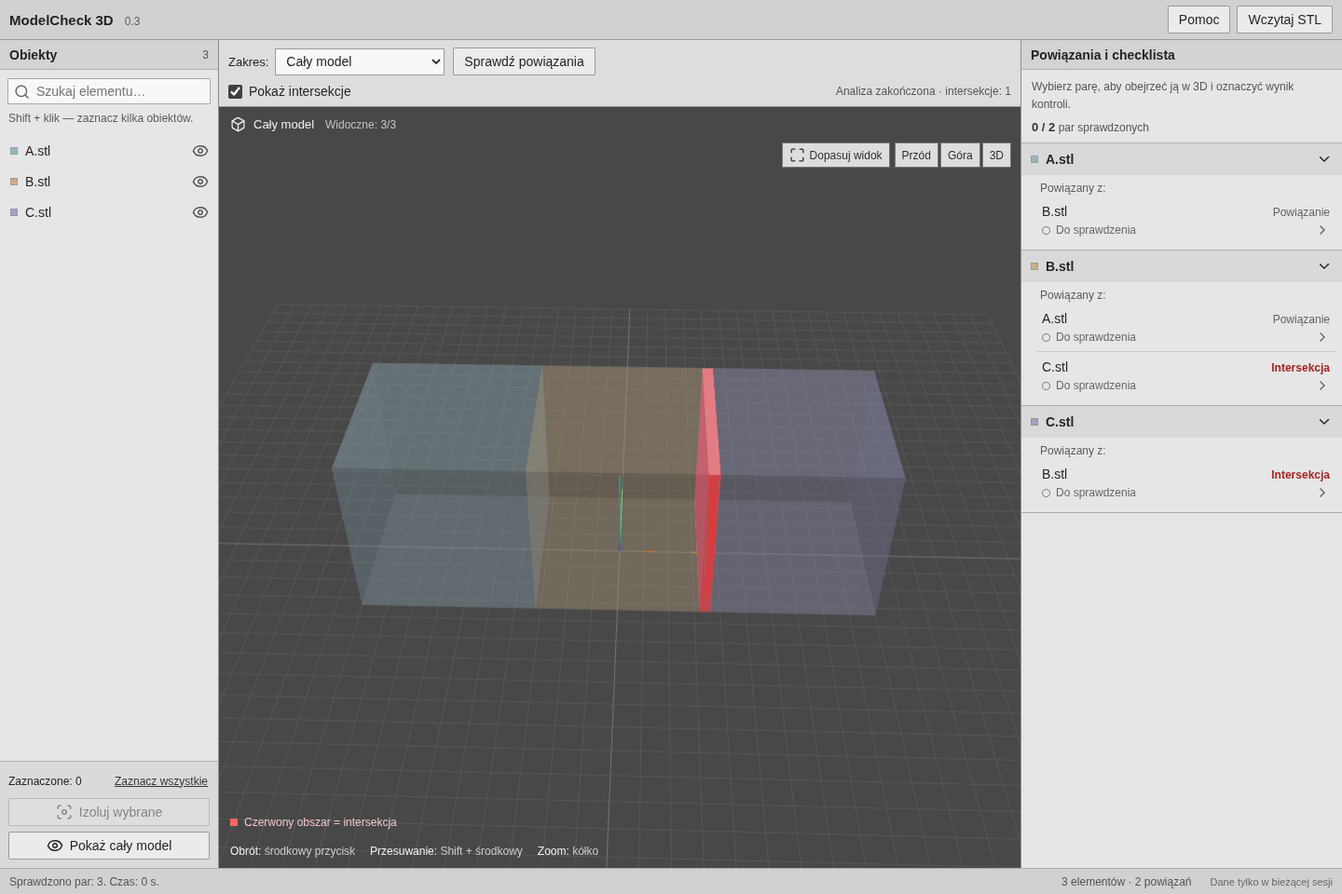
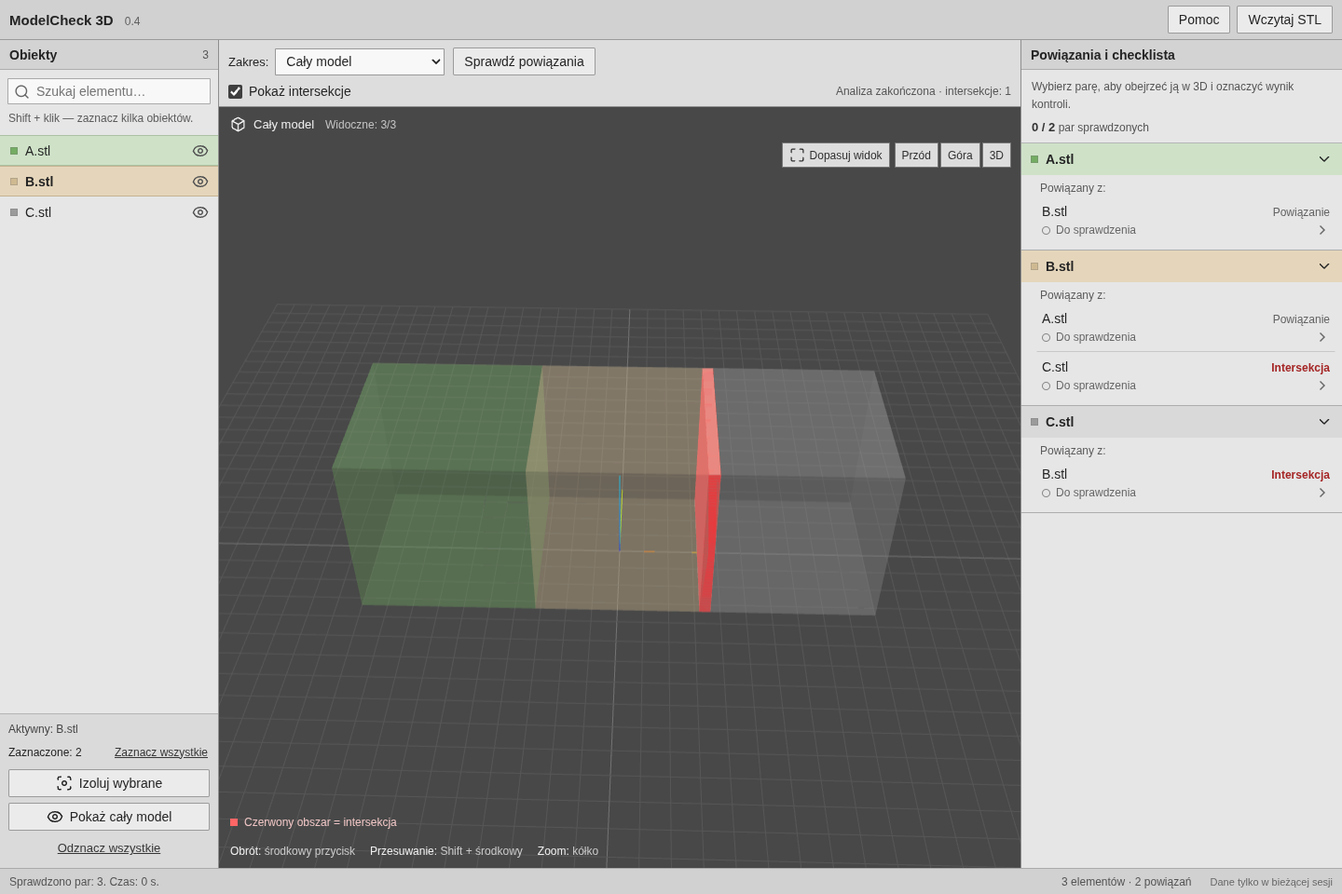
Color parts by inactive, selected and active states

diff --git a/frontend/src/App.tsx b/frontend/src/App.tsx
@@ -4,11 +4,11 @@ import { Viewer } from './Viewer';
 import { ObjectMenu } from './ObjectMenu';
 import type { ObjectMenuState } from './ObjectMenu';
 import type { ViewerHandle } from './Viewer';
-import { api, labels, number, palette } from './types';
+import { api, labels, number, partColor } from './types';
 import type { Job, Part, Relation } from './types';
 import './style.css';
 
-type Imported = { parts: Omit<Part, 'color' | 'visible'>[]; errors: { name: string; message: string }[] };
+type Imported = { parts: Omit<Part, 'visible'>[]; errors: { name: string; message: string }[] };
 const statusLabel = { TODO: 'Do sprawdzenia', OK: 'OK', FIX: 'Wymaga poprawki' };
 function ReviewCard({ relation, parts, disabled, onReview, onClose }: { relation: Relation; parts: Part[]; disabled: boolean; onReview: (status: Relation['status'], note: string) => void; onClose: () => void }) {
   const [note, setNote] = useState(relation.note);
@@ -33,7 +33,9 @@ export default function App() {
   const [session, setSession] = useState('');
   const [parts, setParts] = useState<Part[]>([]);
   const [relations, setRelations] = useState<Relation[]>([]);
-  const [selected, setSelected] = useState<string[]>([]);
+  const [selection, setSelection] = useState<{ ids: string[]; activeId: string | null }>({ ids: [], activeId: null });
+  const selected = selection.ids;
+  const activePartId = selection.activeId;
   const [isolated, setIsolated] = useState<string[] | null>(null);
   const [activePair, setActivePair] = useState<string | null>(null);
   const [scope, setScope] = useState<'all' | 'selected'>('all');
@@ -93,7 +95,7 @@ export default function App() {
   }, [session, job?.id, job?.state]);
 
   const addImported = (result: Imported) => {
-    setParts(previous => [...previous, ...result.parts.map((part, i) => ({ ...part, color: palette[(previous.length + i) % palette.length], visible: true }))]);
+    setParts(previous => [...previous, ...result.parts.map(part => ({ ...part, visible: true }))]);
     setExpanded(previous => new Set([...previous, ...result.parts.map(part => part.id)]));
     if (result.errors.length) setError(result.errors.map(item => `${item.name}: ${item.message}`).join('\n'));
     if (result.parts.length) setNotice(`Wczytano ${result.parts.length} ${result.parts.length === 1 ? 'część' : 'części'}. Współrzędne STL zostały zachowane.`);
@@ -134,14 +136,19 @@ export default function App() {
   }
   function select(id: string | null, multi: boolean) {
     setActivePair(null);
-    if (!id) { if (!multi) setSelected([]); return; }
+    if (!id) { if (!multi) setSelection({ ids: [], activeId: null }); return; }
     if (isolated && !isolated.includes(id)) setIsolated(null);
     setExpanded(previous => new Set([...previous, id]));
     requestAnimationFrame(() => document.getElementById(`check-${id}`)?.scrollIntoView({ block: 'nearest' }));
-    setSelected(previous => multi ? previous.includes(id) ? previous.filter(item => item !== id) : [...previous, id] : [id]);
+    setSelection(previous => {
+      if (!multi) return { ids: [id], activeId: id };
+      if (!previous.ids.includes(id)) return { ids: [...previous.ids, id], activeId: id };
+      const ids = previous.ids.filter(item => item !== id);
+      return { ids, activeId: previous.activeId === id ? ids.at(-1) ?? null : previous.activeId };
+    });
   }
-  function focusPair(relation: Relation) {
-    setActivePair(relation.id); setSelected(relation.part_ids); setIsolated(relation.part_ids);
+  function focusPair(relation: Relation, clickedId: string) {
+    setActivePair(relation.id); setSelection({ ids: relation.part_ids, activeId: clickedId }); setIsolated(relation.part_ids);
     setParts(previous => previous.map(part => relation.part_ids.includes(part.id) ? { ...part, visible: true } : part));
     requestAnimationFrame(() => viewer.current?.fit(relation.part_ids));
   }
@@ -155,7 +162,10 @@ export default function App() {
       await api(`/sessions/${session}/parts/${id}`, { method: 'DELETE' });
       setParts(previous => previous.filter(part => part.id !== id));
       setRelations(previous => previous.filter(relation => !relation.part_ids.includes(id)));
-      setSelected(previous => previous.filter(pid => pid !== id));
+      setSelection(previous => {
+        const ids = previous.ids.filter(pid => pid !== id);
+        return { ids, activeId: previous.activeId === id ? ids.at(-1) ?? null : previous.activeId };
+      });
       setIsolated(null); setActivePair(null); setLoaded(previous => Math.max(0, previous - 1));
       setNotice('Usunięto element z modelu.');
     } catch (err) { setError((err as Error).message); }
@@ -192,7 +202,7 @@ export default function App() {
     <input type="file" ref={fileInput} accept=".stl" multiple hidden onChange={event => { if (event.target.files) void importFiles(event.target.files); }} />
 
     <header className="topbar">
-      <div className="brand"><strong>ModelCheck 3D</strong><span className="app-version">0.3</span></div>
+      <div className="brand"><strong>ModelCheck 3D</strong><span className="app-version">0.4</span></div>
       <div className="header-actions">
         <button className="button secondary help-button" onClick={() => setHelp(true)}>Pomoc</button>
         <button className="button primary" disabled={busy || !session} onClick={() => fileInput.current?.click()}>Wczytaj STL</button>
@@ -208,7 +218,7 @@ export default function App() {
           {!parts.length && <p className="empty-note">Wczytane pliki STL pojawią się tutaj.</p>}
           {parts.filter(part => part.name.toLowerCase().includes(search.toLowerCase())).map(part => {
             const visible = part.visible && (!isolated || isolated.includes(part.id));
-            return <div key={part.id} className={`object-row ${selected.includes(part.id) ? 'selected' : ''} ${!visible ? 'muted' : ''}`}
+            return <div key={part.id} className={`object-row ${selected.includes(part.id) ? 'selected' : ''} ${activePartId === part.id ? 'active-part' : ''} ${!visible ? 'muted' : ''}`} data-selection={activePartId === part.id ? 'active' : selected.includes(part.id) ? 'selected' : 'idle'}
               onContextMenu={event => {
                 event.preventDefault();
                 setObjectMenu({ id: part.id, x: event.clientX, y: event.clientY, trigger: event.currentTarget.querySelector<HTMLButtonElement>('.object-select') });
@@ -221,8 +231,8 @@ export default function App() {
                 }
               }}>
 
-              <button className="object-select" aria-pressed={selected.includes(part.id)} onClick={event => select(part.id, event.shiftKey || event.ctrlKey || event.metaKey)}>
-                <span className="part-swatch" style={{ background: part.color }} /><span title={part.name}>{part.name}{duplicateName(part)}</span>
+              <button className="object-select" aria-pressed={selected.includes(part.id)} aria-current={activePartId === part.id ? 'true' : undefined} onClick={event => select(part.id, event.shiftKey || event.ctrlKey || event.metaKey)}>
+                <span className="part-swatch" style={{ background: partColor(part.id, selected, activePartId) }} /><span title={part.name}>{part.name}{duplicateName(part)}</span>
                 {!part.solid && <span className="warning-text" title="Siatka wymaga weryfikacji">!</span>}
               </button>
               <button className="icon-button visibility-button" title={`${visible ? 'Ukryj' : 'Pokaż'} ${part.name}`} onClick={() => toggleVisibility(part)}>{visible ? <Eye size={18} /> : <EyeOff size={18} />}</button>
@@ -231,10 +241,11 @@ export default function App() {
           {parts.length > 0 && !parts.some(part => part.name.toLowerCase().includes(search.toLowerCase())) && <p className="empty-note">Nie znaleziono elementu.</p>}
         </div>
         <div className="selection-tools">
-          <div className="selection-summary"><strong>Zaznaczone: {selected.length}</strong><button className="text-button" disabled={!parts.length} onClick={() => setSelected(parts.map(part => part.id))}>Zaznacz wszystkie</button></div>
+          <p className="active-object" title={parts.find(part => part.id === activePartId)?.name}>Aktywny: {parts.find(part => part.id === activePartId)?.name ?? '—'}</p>
+          <div className="selection-summary"><strong>Zaznaczone: {selected.length}</strong><button className="text-button" disabled={!parts.length} onClick={() => setSelection(previous => ({ ids: parts.map(part => part.id), activeId: previous.activeId ?? parts.at(-1)?.id ?? null }))}>Zaznacz wszystkie</button></div>
           <button className="button secondary wide" disabled={!selected.length} onClick={fitSelected}><Focus size={18} />Izoluj wybrane</button>
           <button className="button secondary wide" disabled={!parts.length} onClick={showAll}><Eye size={18} />Pokaż cały model</button>
-          {selected.length > 0 && <button className="text-button wide" onClick={() => { setSelected([]); setActivePair(null); }}>Odznacz wszystkie</button>}
+          {selected.length > 0 && <button className="text-button wide" onClick={() => { setSelection({ ids: [], activeId: null }); setActivePair(null); }}>Odznacz wszystkie</button>}
         </div>
       </aside>
 
@@ -252,7 +263,7 @@ export default function App() {
         </section>
 
         <div className="viewport">
-          <Viewer ref={viewer} session={session} parts={parts} relations={overlayRelations} selected={selected} isolated={isolated} intersections={intersections} onSelect={select} onError={setError} onLoaded={setLoaded} />
+          <Viewer ref={viewer} session={session} parts={parts} relations={overlayRelations} selected={selected} activePartId={activePartId} isolated={isolated} intersections={intersections} onSelect={select} onError={setError} onLoaded={setLoaded} />
           <div className="scene-label"><Box size={17} /><strong>{isolated ? 'Wybrane elementy' : 'Cały model'}</strong><span>Widoczne: {parts.filter(part => part.visible && (!isolated || isolated.includes(part.id))).length}/{parts.length}</span></div>
           <div className="view-controls"><button title="Dopasuj kamerę do widocznych części" onClick={() => viewer.current?.fit()}><Maximize size={17} />Dopasuj widok</button><div className="axis-controls"><button title="Widok z przodu" onClick={() => viewer.current?.view('y')}>Przód</button><button title="Widok z góry" onClick={() => viewer.current?.view('z')}>Góra</button><button title="Widok perspektywiczny" onClick={() => viewer.current?.view('perspective')}>3D</button></div></div>
           {!parts.length && <div className="welcome"><h1>Brak modelu</h1><p>Wczytaj pliki STL lub przeciągnij je do okna.</p><button className="button primary" disabled={busy || !session} onClick={() => fileInput.current?.click()}>Wybierz pliki STL</button><button className="text-button" disabled={busy || !session} onClick={() => void demo()}>Wypróbuj przykład A / B / C</button></div>}
@@ -274,15 +285,15 @@ export default function App() {
             const rows = all.filter(row => row.kind !== 'DISCONNECTED').sort((a, b) => otherName(a).localeCompare(otherName(b), 'pl', { numeric: true }));
             const complete = all.length === parts.length - 1;
             const isExpanded = expanded.has(part.id);
-            return <section className={`check-part ${selected.includes(part.id) ? 'highlight' : ''}`} key={part.id} id={`check-${part.id}`}>
+            return <section className={`check-part ${selected.includes(part.id) ? 'highlight' : ''} ${activePartId === part.id ? 'active-part' : ''}`} key={part.id} id={`check-${part.id}`}>
               <button className="check-part-heading" onClick={() => toggleExpanded(part.id)} aria-expanded={isExpanded}>
-                <span className="part-swatch" style={{ background: part.color }} /><strong title={part.name}>{part.name}{duplicateName(part)}</strong>{isExpanded ? <ChevronDown size={18} /> : <ChevronRight size={18} />}
+                <span className="part-swatch" style={{ background: partColor(part.id, selected, activePartId) }} /><strong title={part.name}>{part.name}{duplicateName(part)}</strong>{isExpanded ? <ChevronDown size={18} /> : <ChevronRight size={18} />}
               </button>
               {isExpanded && <div className="check-part-relations">
                 {rows.length > 0 && <p className="relation-list-label">{rows.some(row => row.kind === 'UNCERTAIN') ? 'Powiązania i pary do weryfikacji:' : 'Powiązany z:'}</p>}
                 {rows.map(row => {
                   const other = parts.find(item => item.id === row.part_ids.find(id => id !== part.id));
-                  return <button key={row.id} className={`relation-row ${activePair === row.id ? 'active' : ''}`} onClick={() => focusPair(row)}>
+                  return <button key={row.id} className={`relation-row ${activePair === row.id ? 'active' : ''}`} onClick={() => focusPair(row, other?.id ?? row.part_ids[1])}>
                     <div className="relation-title"><strong title={other?.name}>{other?.name}{other ? duplicateName(other) : ''}</strong><span className={`relation-kind ${row.kind.toLowerCase()}`}>{labels[row.kind]}</span></div>
                     <div className={`review-status ${row.status.toLowerCase()}`}>{row.status === 'OK' ? <Check size={15} /> : row.status === 'FIX' ? <TriangleAlert size={15} /> : <span className="status-circle" />}{statusLabel[row.status]}<ChevronRight size={16} /></div>
                   </button>;

diff --git a/frontend/tests/workflow.spec.ts b/frontend/tests/workflow.spec.ts
@@ -10,6 +10,7 @@ test('model ABC: render, analyze, inspect, review and scope', async ({ page }, t
   await expect(page.locator('.object-row')).toHaveCount(3);
   await expect(page.locator('.geometry-loading')).toHaveCount(0);
   await expect(page.locator('canvas')).toBeVisible();
+  await expect(page.locator('.object-row[data-selection=idle]')).toHaveCount(3);
   await expect(page.getByLabel('Pokaż intersekcje', { exact: true })).not.toBeChecked();
   const canvas = page.locator('canvas');
   const bounds = (await canvas.boundingBox())!;
@@ -38,6 +39,18 @@ test('model ABC: render, analyze, inspect, review and scope', async ({ page }, t
   after = await canvas.screenshot();
   expect(Buffer.compare(before, after), 'Scroll wheel must zoom the rendered scene').not.toBe(0);
   await page.getByTitle('Dopasuj kamerę do widocznych części').click();
+  const a = page.locator('.object-row').filter({ hasText: 'A.stl' });
+  const b = page.locator('.object-row').filter({ hasText: 'B.stl' });
+  const c = page.locator('.object-row').filter({ hasText: 'C.stl' });
+  await a.locator('.object-select').click();
+  await b.locator('.object-select').click({ modifiers: ['Shift'] });
+  await expect(a).toHaveAttribute('data-selection', 'selected');
+  await expect(b).toHaveAttribute('data-selection', 'active');
+  await expect(c).toHaveAttribute('data-selection', 'idle');
+  await expect(a.locator('.part-swatch')).toHaveCSS('background-color', 'rgb(116, 172, 100)');
+  await expect(b.locator('.part-swatch')).toHaveCSS('background-color', 'rgb(207, 185, 145)');
+  await expect(c.locator('.part-swatch')).toHaveCSS('background-color', 'rgb(155, 155, 155)');
+  await page.screenshot({ path: testInfo.outputPath('selection.png') });
   await page.getByRole('button', { name: 'Sprawdź powiązania' }).click();
   await expect(page.locator('.analysis-heading')).toContainText('Analiza zakończona');
   await expect(page.locator('.statusbar')).toContainText('Sprawdzono par: 3');
@@ -102,6 +115,18 @@ test('separated parts are not proposed as related; all elements remain on checkl
   await page.locator('.object-row').filter({ hasText: 'left.stl' }).locator('.object-select').click();
   await page.locator('.object-row').filter({ hasText: 'right.stl' }).locator('.object-select').click({ modifiers: ['Shift'] });
   await expect(page.locator('.object-row.selected')).toHaveCount(2);
+  const left = page.locator('.object-row').filter({ hasText: 'left.stl' });
+  const right = page.locator('.object-row').filter({ hasText: 'right.stl' });
+  await expect(left).toHaveAttribute('data-selection', 'selected');
+  await expect(right).toHaveAttribute('data-selection', 'active');
+  await left.locator('.object-select').click({ modifiers: ['Shift'] });
+  await expect(left).toHaveAttribute('data-selection', 'idle');
+  await expect(right).toHaveAttribute('data-selection', 'active');
+  await right.locator('.object-select').click({ modifiers: ['Shift'] });
+  await expect(page.locator('.object-row[data-selection=active]')).toHaveCount(0);
+  await expect(page.locator('.object-row[data-selection=idle]')).toHaveCount(3);
+  await left.locator('.object-select').click();
+  await right.locator('.object-select').click({ modifiers: ['Shift'] });
   await page.getByRole('button', { name: 'Izoluj wybrane' }).click();
   await expect(page.locator('.scene-label')).toContainText('Widoczne: 2/3');
   await page.getByRole('button', { name: 'Pokaż cały model', exact: true }).click();
@@ -134,4 +159,12 @@ test('separated parts are not proposed as related; all elements remain on checkl
   await expect(page.getByRole('menu')).toHaveCount(0);
   await expect(page.locator('.object-row')).toHaveCount(2);
   await expect(page.locator('.check-part')).toHaveCount(2);
+  await expect(right).toHaveAttribute('data-selection', 'active');
+  // Deleting the active object promotes another selected object; clearing leaves no active object.
+  await right.click({ button: 'right' });
+  await page.getByRole('menu', { name: 'Opcje elementu right.stl' }).getByRole('menuitem', { name: 'Usuń', exact: true }).click();
+  await expect(page.locator('.object-row')).toHaveCount(1);
+  await expect(left).toHaveAttribute('data-selection', 'active');
+  await page.getByRole('button', { name: 'Odznacz wszystkie', exact: true }).click();
+  await expect(left).toHaveAttribute('data-selection', 'idle');
 });

diff --git a/frontend/src/Viewer.tsx b/frontend/src/Viewer.tsx
@@ -3,9 +3,10 @@ import * as THREE from 'three';
 import { OrbitControls } from 'three/addons/controls/OrbitControls.js';
 import { STLLoader } from 'three/addons/loaders/STLLoader.js';
 import type { Part, Relation } from './types';
+import { partColor, partColors } from './types';
 
 export type ViewerHandle = { fit: (ids?: string[]) => void; view: (axis: 'x' | 'y' | 'z' | 'perspective') => void };
-type Props = { session: string; parts: Part[]; relations: Relation[]; selected: string[]; isolated: string[] | null; intersections: boolean; onSelect: (id: string | null, multi: boolean) => void; onError: (message: string) => void; onLoaded: (count: number) => void };
+type Props = { session: string; parts: Part[]; relations: Relation[]; selected: string[]; activePartId: string | null; isolated: string[] | null; intersections: boolean; onSelect: (id: string | null, multi: boolean) => void; onError: (message: string) => void; onLoaded: (count: number) => void };
 type Engine = { scene: THREE.Scene; camera: THREE.PerspectiveCamera; controls: OrbitControls; renderer: THREE.WebGLRenderer; meshes: Map<string, THREE.Mesh<THREE.BufferGeometry, THREE.MeshStandardMaterial>>; overlays: THREE.Group; grid: THREE.GridHelper; fit: (ids?: string[]) => void; invalidate: () => void };
 const loader = new STLLoader();
 function dispose(object: THREE.Object3D) {
@@ -55,9 +56,9 @@ export const Viewer = forwardRef<ViewerHandle, Props>(function Viewer(props, ref
     controls.mouseButtons.RIGHT = null;
     controls.mouseButtons.MIDDLE = THREE.MOUSE.ROTATE;
     controls.screenSpacePanning = true;
-    scene.add(new THREE.HemisphereLight(0xddeaff, 0x494139, 2.5));
+    scene.add(new THREE.HemisphereLight(0xffffff, 0x656565, 2.5));
     const key = new THREE.DirectionalLight(0xffffff, 3); key.position.set(20, -30, 60); scene.add(key);
-    const fill = new THREE.DirectionalLight(0xc8d7ff, 1); fill.position.set(-30, 10, 10); scene.add(fill);
+    const fill = new THREE.DirectionalLight(0xffffff, 1); fill.position.set(-30, 10, 10); scene.add(fill);
     const grid = new THREE.GridHelper(80, 40, 0x727272, 0x565656);
     grid.rotateX(Math.PI / 2); scene.add(grid);
     const axes = new THREE.AxesHelper(12); scene.add(axes);
@@ -133,7 +134,7 @@ export const Viewer = forwardRef<ViewerHandle, Props>(function Viewer(props, ref
           const geometry = loader.parse(await response.arrayBuffer());
           if (cancelled) { geometry.dispose(); return; }
           geometry.computeBoundingSphere();
-          const mesh = new THREE.Mesh(geometry, new THREE.MeshStandardMaterial({ color: part.color, roughness: .6, metalness: .1, side: THREE.DoubleSide }));
+          const mesh = new THREE.Mesh(geometry, new THREE.MeshStandardMaterial({ color: partColors.idle, roughness: .6, metalness: 0, side: THREE.DoubleSide }));
           mesh.userData.id = part.id; e.meshes.set(part.id, mesh); e.scene.add(mesh);
           applyMaterials();
           latest.current.onLoaded(e.meshes.size);
@@ -152,15 +153,15 @@ export const Viewer = forwardRef<ViewerHandle, Props>(function Viewer(props, ref
     for (const part of current.parts) {
       const mesh = e.meshes.get(part.id); if (!mesh) continue;
       mesh.visible = part.visible && (!current.isolated || current.isolated.includes(part.id));
-      mesh.material.color.set(part.color);
-      mesh.material.emissive.set(current.selected.includes(part.id) ? '#245963' : '#000000');
-      mesh.material.emissiveIntensity = .35;
+      mesh.material.color.set(partColor(part.id, current.selected, current.activePartId));
+      mesh.material.emissive.set('#000000');
+      mesh.material.emissiveIntensity = 0;
       mesh.material.transparent = ghost; mesh.material.opacity = ghost ? .25 : 1;
       mesh.material.depthWrite = !ghost; mesh.material.wireframe = false;
     }
     e.invalidate();
   }
-  useEffect(() => { applyMaterials(); }, [props.parts, props.selected, props.isolated, props.intersections]);
+  useEffect(() => { applyMaterials(); }, [props.parts, props.selected, props.activePartId, props.isolated, props.intersections]);
 
   useEffect(() => {
     const e = engine.current; if (!e) return;

diff --git a/frontend/src/style.css b/frontend/src/style.css
@@ -44,7 +44,10 @@ h2 { font-size: 14px; font-weight: 600; }
 .object-list { flex: 1; overflow: auto; min-height: 60px; padding-bottom: 8px; }
 .object-row { display: flex; align-items: center; min-height: 33px; padding: 0 5px 0 8px; border-top: 1px solid transparent; border-bottom: 1px solid transparent; }
 .object-row:hover { background: #d8d8d8; }
-.object-row.selected { background: #c3d5e8; border-color: #a4b9ce; }
+.object-row.selected { background: #cfe2c8; border-color: #acc2a3; }
+.object-row.active-part { background: #e5d6bb; border-color: #c4b291; }
+.object-row.active-part .object-select { font-weight: 600; }
+.active-object { color: #444; font-size: 12px; overflow: hidden; text-overflow: ellipsis; white-space: nowrap; }
 .object-select { display: flex; align-items: center; gap: 8px; flex: 1; min-width: 0; align-self: stretch; text-align: left; padding: 5px 3px; }
 .object-select > span:nth-child(2) { overflow: hidden; text-overflow: ellipsis; white-space: nowrap; }
 .object-row.muted .object-select { color: #7a7a7a; }
@@ -99,7 +102,8 @@ progress { display: block; width: 100%; height: 7px; margin-top: 8px; accent-col
 .check-part-heading { width: 100%; display: flex; align-items: center; gap: 8px; padding: 8px 10px; text-align: left; background: #d9d9d9; }
 .check-part-heading:hover { background: #cecece; }
 .check-part-heading > strong { flex: 1; min-width: 0; overflow: hidden; text-overflow: ellipsis; font-size: 14px; font-weight: 600; }
-.check-part.highlight .check-part-heading { background: #c3d5e8; }
+.check-part.highlight .check-part-heading { background: #cfe2c8; }
+.check-part.active-part .check-part-heading { background: #e5d6bb; }
 .check-part-relations { padding: 0 7px 5px 16px; }
 .relation-list-label { color: #5c5c5c; font-size: 12px; padding: 7px 4px 2px; }
 .relation-row { width: 100%; padding: 7px 5px; border: 1px solid transparent; border-bottom-color: #c8c8c8; text-align: left; }

diff --git a/frontend/src/types.ts b/frontend/src/types.ts
@@ -1,9 +1,12 @@
-export type Part = { id: string; name: string; size: number; faces: number; solid: boolean; bounds: number[][]; color: string; visible: boolean };
+export type Part = { id: string; name: string; size: number; faces: number; solid: boolean; bounds: number[][]; visible: boolean };
 export type Kind = 'INTERSECTION' | 'CONNECTED' | 'DISCONNECTED' | 'UNCERTAIN';
 export type Relation = { id: string; part_ids: [string, string]; kind: Kind; volume: number | null; message: string; status: 'TODO' | 'OK' | 'FIX'; note: string };
 export type Job = { id: string; state: 'running' | 'done' | 'error'; completed: number; total: number; seconds: number; error: string | null };
 export const labels: Record<Kind, string> = { INTERSECTION: 'Intersekcja', CONNECTED: 'Powiązanie', DISCONNECTED: 'Brak powiązania', UNCERTAIN: 'Wymaga weryfikacji' };
-export const palette = ['#9ab6bd', '#c6ae88', '#a3a0c2', '#8eb7a1', '#c5939c', '#92a9cd', '#c4ba7d', '#b29b85'];
+export const partColors = { idle: '#9b9b9b', selected: '#74ac64', active: '#cfb991' };
+export function partColor(id: string, selected: string[], activeId: string | null) {
+  return id === activeId ? partColors.active : selected.includes(id) ? partColors.selected : partColors.idle;
+}
 export const number = (value: number, digits = 4) => value.toLocaleString('pl-PL', { maximumFractionDigits: digits });
 export async function api<T>(path: string, init?: RequestInit): Promise<T> {
   const response = await fetch('/api' + path, init);

diff --git a/backend/main.py b/backend/main.py
@@ -14,7 +14,7 @@ from starlette.concurrency import run_in_threadpool
 from pydantic import BaseModel, Field, ConfigDict
 from backend.geometry import prepare, analyze_pair, CONNECTION_EPS
 
-app = FastAPI(title='ModelCheck 3D', version='0.3.0')
+app = FastAPI(title='ModelCheck 3D', version='0.4.0')
 executor = ThreadPoolExecutor(max_workers=1)
 sessions = {}
 lock = RLock()

diff --git a/README.md b/README.md
@@ -1,6 +1,6 @@
-# ModelCheck 3D — prototyp 0.3
+# ModelCheck 3D — prototyp 0.4
 
-Lokalna aplikacja do sprawdzania **powiązań części STL i intersekcji**. Widok 3D działa podobnie do Blendera, a checklista zawiera wszystkie wczytane elementy. Interfejs jest prostym edytorem z systemową czcionką, szarymi panelami i płaskimi przyciskami. Numer wersji 0.3 jest widoczny w nagłówku. Usunięto osobne kategorie styków i szczelin, ich znaczniki oraz próg odległości.
+Lokalna aplikacja do sprawdzania **powiązań części STL i intersekcji**. Widok 3D działa podobnie do Blendera, a checklista zawiera wszystkie wczytane elementy. Interfejs jest prostym edytorem z systemową czcionką, szarymi panelami i płaskimi przyciskami. Numer wersji 0.4 jest widoczny w nagłówku. Usunięto osobne kategorie styków i szczelin, ich znaczniki oraz próg odległości.
 
 ![Uproszczony interfejs: lista elementów, model 3D i powiązania części](docs/modelcheck3d.png)
 
@@ -13,7 +13,7 @@ Wymagane: **Python 3.12, 64-bit** z launcherem `py` oraz **Node.js 22 lub 24** z
 3. Uruchom `start.cmd`. Aplikacja otworzy się w przeglądarce.
 4. Pozostaw okno serwera otwarte. Ctrl+C kończy jego pracę.
 
-**Aktualizacja ze starszej wersji:** zakończ poprzedni serwer klawiszami Ctrl+C w jego oknie, rozpakuj nowy ZIP do osobnego folderu i uruchom w nim `setup.cmd`, a potem `start.cmd`. W nagłówku otwartej aplikacji powinno być **0.3**. Stary działający proces nie wczyta automatycznie nowego silnika analizy.
+**Aktualizacja ze starszej wersji:** zakończ poprzedni serwer klawiszami Ctrl+C w jego oknie, rozpakuj nowy ZIP do osobnego folderu i uruchom w nim `setup.cmd`, a potem `start.cmd`. W nagłówku otwartej aplikacji powinno być **0.4**. Stary działający proces nie wczyta automatycznie nowego silnika analizy.
 
 Aplikacja po instalacji działa bez Internetu; czcionki też są lokalne. Serwer nasłuchuje tylko na tym komputerze, domyślnie na porcie 8000. Gdy port jest zajęty, uruchom `.venv\Scripts\python.exe run.py --port 8001`.
 
@@ -42,6 +42,20 @@ Pakiety silnika są dostępne dla Windows / Python 3.12 x64. Bieżący prototyp 
 Analiza podzbioru aktualizuje tylko jego pary. Pozostałe wyniki i ręczne oceny pozostają; niesprawdzone pary są wyraźnie oznaczone jako nieprzeanalizowane. Po dodaniu części ponownie uruchom sprawdzanie, aby znaleźć ich powiązania.
 
 W pustym widoku dostępny jest przykład A/B/C: A łączy się z B, B z C, a B i C mają też intersekcję. A i C są rozdzielone. Możesz od razu użyć własnych STL.
+
+## Kolory elementów
+
+| Stan | Kolor |
+| --- | --- |
+| Niezaznaczony i nieaktywny | Szary |
+| Zaznaczony, ale nieaktywny | Zielony |
+| Aktywny | Beżowy |
+
+Aktywny jest ostatnio wskazany element. Należy do zaznaczenia; pozostałe zaznaczone części są zielone. Shift + klik dodaje lub usuwa element z zaznaczenia. Jeśli odznaczysz lub usuniesz aktywną część, inna zaznaczona część staje się aktywna. Odznaczenie wszystkich pozostawia cały model szary.
+
+Te same kolory obowiązują w widoku 3D, na liście obiektów i przy elementach checklisty. Intersekcje są nadal czerwone i widoczne tylko po włączeniu podświetlenia.
+
+![Szary element niezaznaczony, zielony zaznaczony i beżowy aktywny](docs/selection.png)
 
 ## Sterowanie
 
